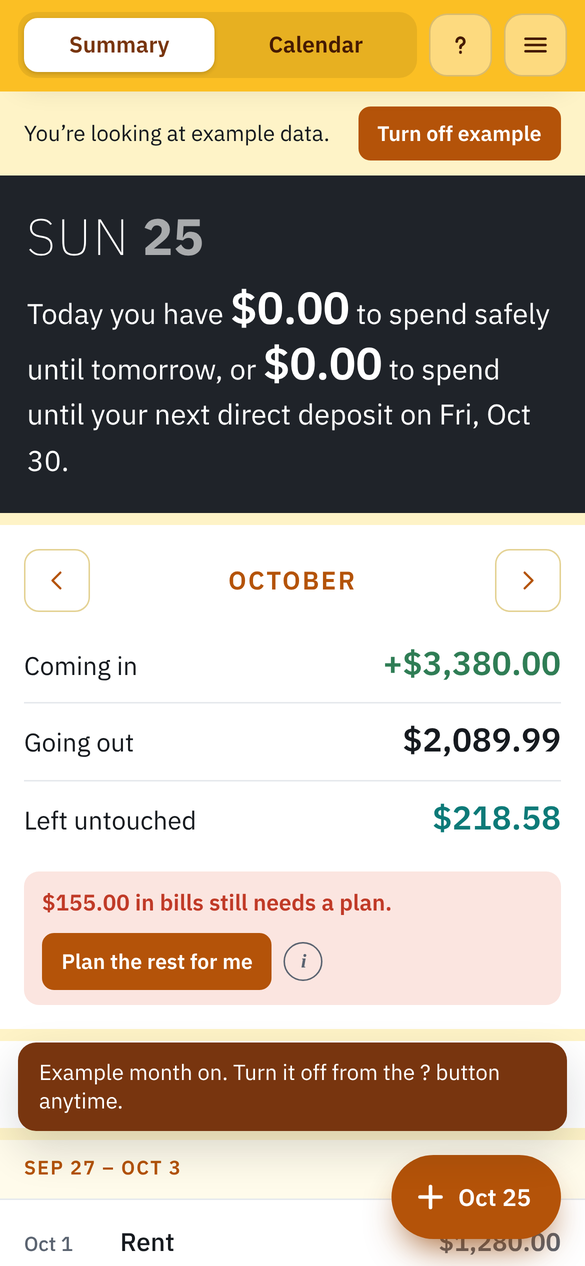
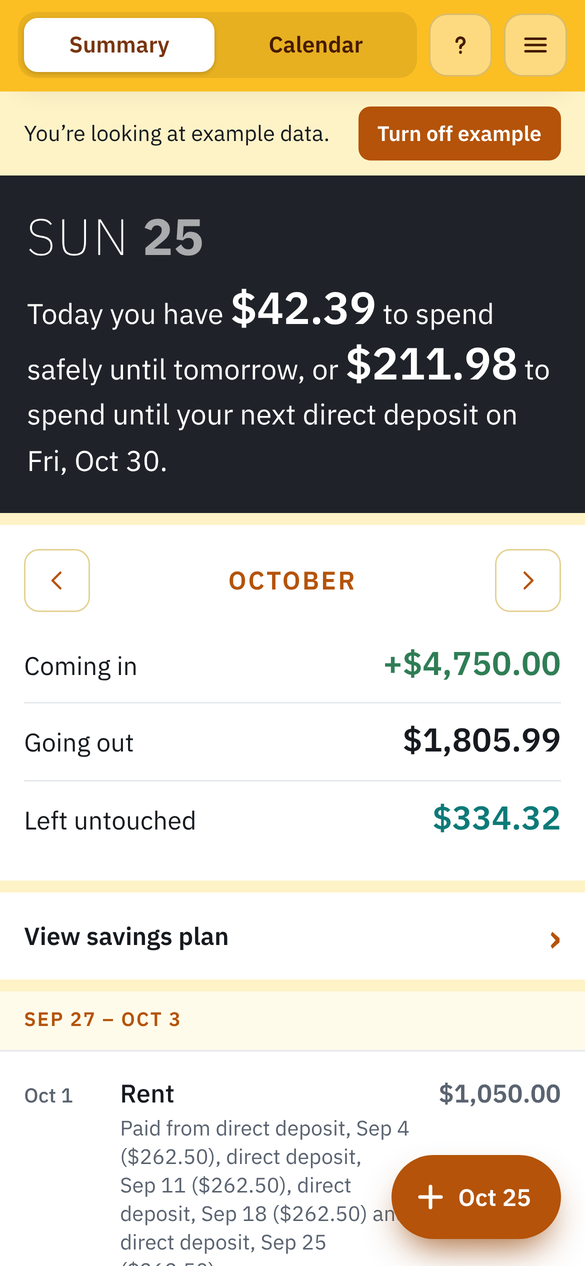
Make the example month realistic and update screenshots

diff --git a/index.html b/index.html
@@ -3674,24 +3674,28 @@ body.savebar-open #toast{bottom:calc(84px + env(safe-area-inset-bottom,0px))}
     const today = todayStr(), cur = ym(today), prev = shiftMonth(cur, -1);
     let fri = addDays(prev + '-01', -35);
     while (dow(fri) !== 5) fri = addDays(fri, -1);
-    s.sources.push({ id: uid(), name: 'Direct deposit', kind: 'deposit', lands: 'Checking', amount: 64000, freq: 'weekly', start: fri });
-    s.sources.push({ id: uid(), name: 'Side gig', kind: 'gig', lands: 'Cash App', amount: 18000, freq: 'once', start: cur + '-20' });
-    s.goals.push({ id: uid(), name: 'Emergency fund', target: 30000, method: 'date', date: monthRange(shiftMonth(cur, 2))[1], start: cur + '-01', from: 'all' },
-      { id: uid(), name: 'Car fund', target: 15000, method: 'amount', amount: 1500, start: cur + '-01', from: 'all' });
+    s.sources.push({ id: uid(), name: 'Direct deposit', kind: 'deposit', lands: 'Checking', amount: 90000, freq: 'weekly', start: fri });
+    s.sources.push({ id: uid(), name: 'Side gig', kind: 'gig', lands: 'Cash App', amount: 25000, freq: 'once', start: cur + '-20' });
+    s.goals.push({ id: uid(), name: 'Emergency fund', target: 50000, method: 'date', date: monthRange(shiftMonth(cur, 2))[1], start: cur + '-01', from: 'all' },
+      { id: uid(), name: 'Car fund', target: 60000, method: 'amount', amount: 2000, start: cur + '-01', from: 'all' });
     const mk = (name, amount, day) => ({ id: uid(), name, amount, freq: 'monthly', start: prev + '-' + pad(day) });
-    s.bills.push(mk('Rent', 128000, 1), mk('Internet', 7000, 5), mk('Streaming', 1599, 9), mk('Phone', 6500, 12), mk('Car insurance', 14800, 18), mk('Electric', 11600, 22), mk('Car payment', 31000, 26));
+    s.bills.push(mk('Rent', 105000, 1), mk('Internet', 6000, 5), mk('Streaming', 1599, 9), mk('Phone', 6500, 12), mk('Car insurance', 13500, 18), mk('Electric', 11000, 22), mk('Car payment', 28500, 26));
     S = s;
+    reindex();
+    // Set a piece of rent aside from each paycheck in the four weeks before it's due,
+    // the way most people budget for it, so no single check gets swallowed whole.
+    billsIn(prev + '-01', monthRange(shiftMonth(cur, 1))[1]).filter(b => b.name === 'Rent').forEach(b => {
+      const cs = checksIn(addDays(b.ds, -28), addDays(b.ds, -1)).filter(c => c.src && c.src.freq === 'weekly');
+      if (!cs.length) return;
+      const each = Math.floor(b.amount / cs.length);
+      cs.forEach((c, i) => setAlloc(b.key, c.key, i === cs.length - 1 ? b.amount - each * (cs.length - 1) : each));
+    });
     reindex();
     [cur, shiftMonth(cur, 1), prev].forEach(k => autoPlan(k, { includePast: true }));
     billsIn(prev + '-01', addDays(today, -1)).forEach(b => setEdit('billEdits', b.key, 'paid', true));
     const future = billsIn(today, addDays(today, 40));
     const el = future.find(b => b.name === 'Electric');
     if (el) S.allocs = S.allocs.filter(a => a.bill !== el.key);
-    const car = future.find(b => b.name === 'Car payment');
-    if (car) {
-      const as = S.allocs.filter(a => a.bill === car.key);
-      if (as.length) { S.allocs = S.allocs.filter(a => a.bill !== car.key || a === as[0]); as[0].amount = Math.min(as[0].amount, 15500); }
-    }
     const xd = cur + '-14', xc = coverCheck(xd);
     if (xc) S.expenses.push({ id: uid(), name: 'Tire repair', amount: 8500, ds: xd, check: xc });
     reindex();

diff --git a/README.md b/README.md
@@ -6,8 +6,9 @@ I wanted to stop guessing whether I could afford something before my next check 
 
 <table>
   <tr>
-    <td align="center"><img src="screenshots/1-summary.png" width="220" alt="Safe to spend"><br><sub>Safe to spend</sub></td>
-    <td align="center"><img src="screenshots/2-calendar.png" width="220" alt="Paydays and bills by day"><br><sub>Paydays and bills by day</sub></td>
+    <td align="center"><img src="screenshots/1-summary.png" width="220" alt="Safe to spend today"><br><sub>Safe to spend today</sub></td>
+    <td align="center"><img src="screenshots/2-calendar.png" width="220" alt="Every day's spending money"><br><sub>Every day's spending money</sub></td>
+    <td align="center"><img src="screenshots/3-paycheck.png" width="220" alt="Where each check goes"><br><sub>Where each check goes</sub></td>
   </tr>
 </table>
 
